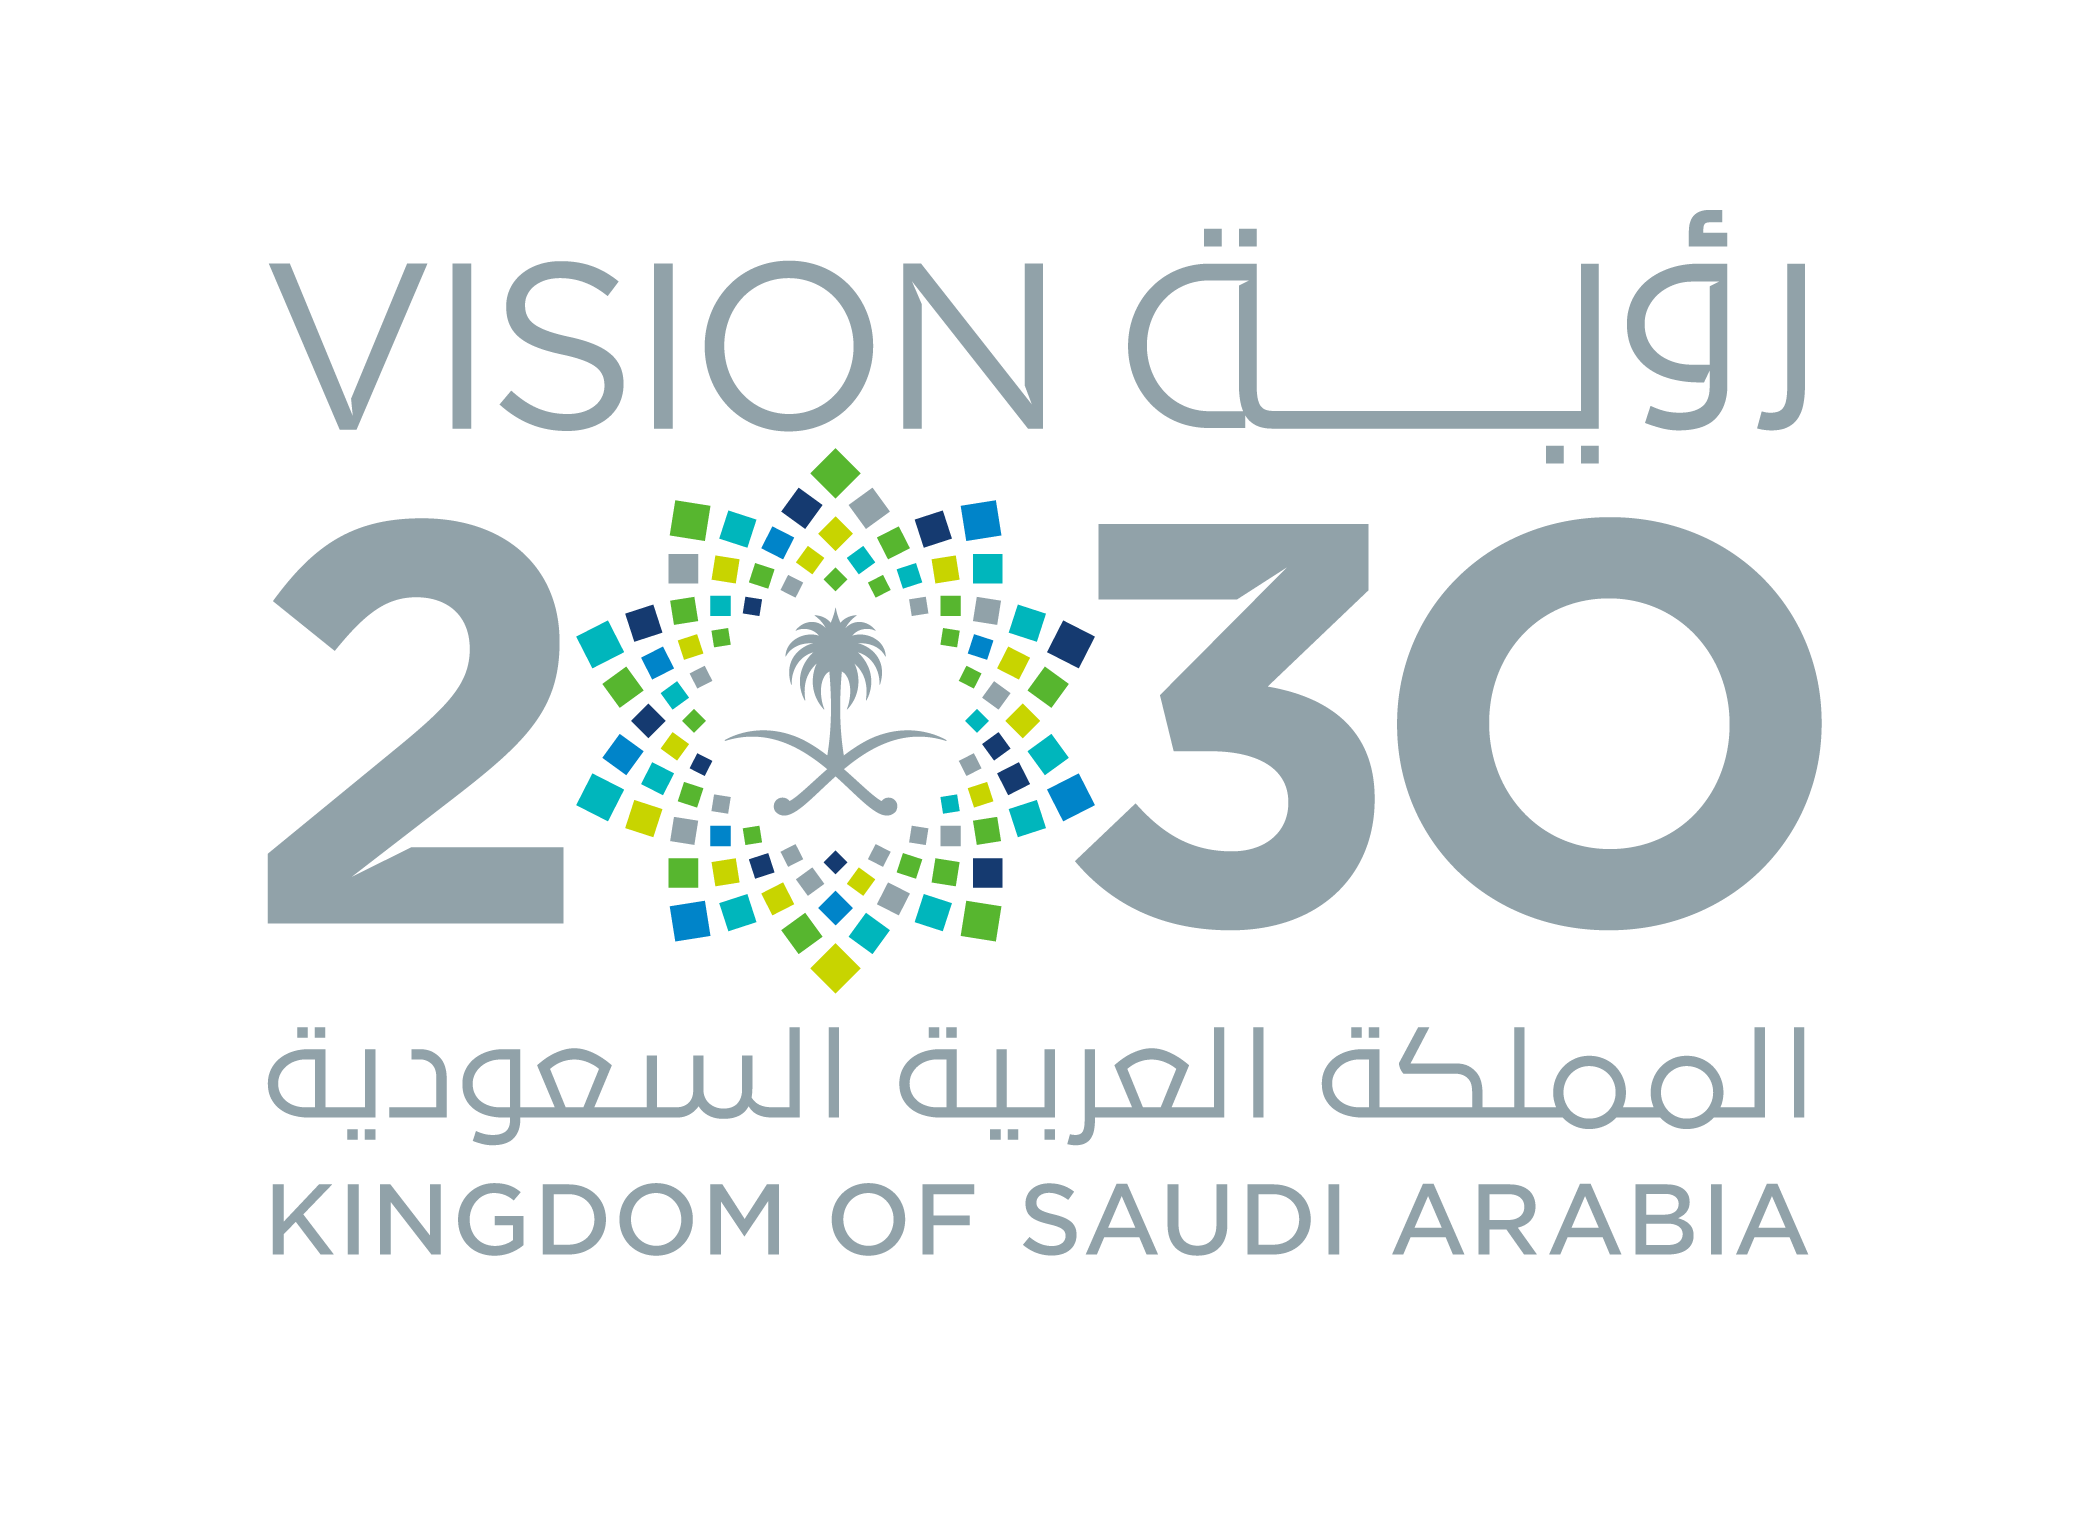
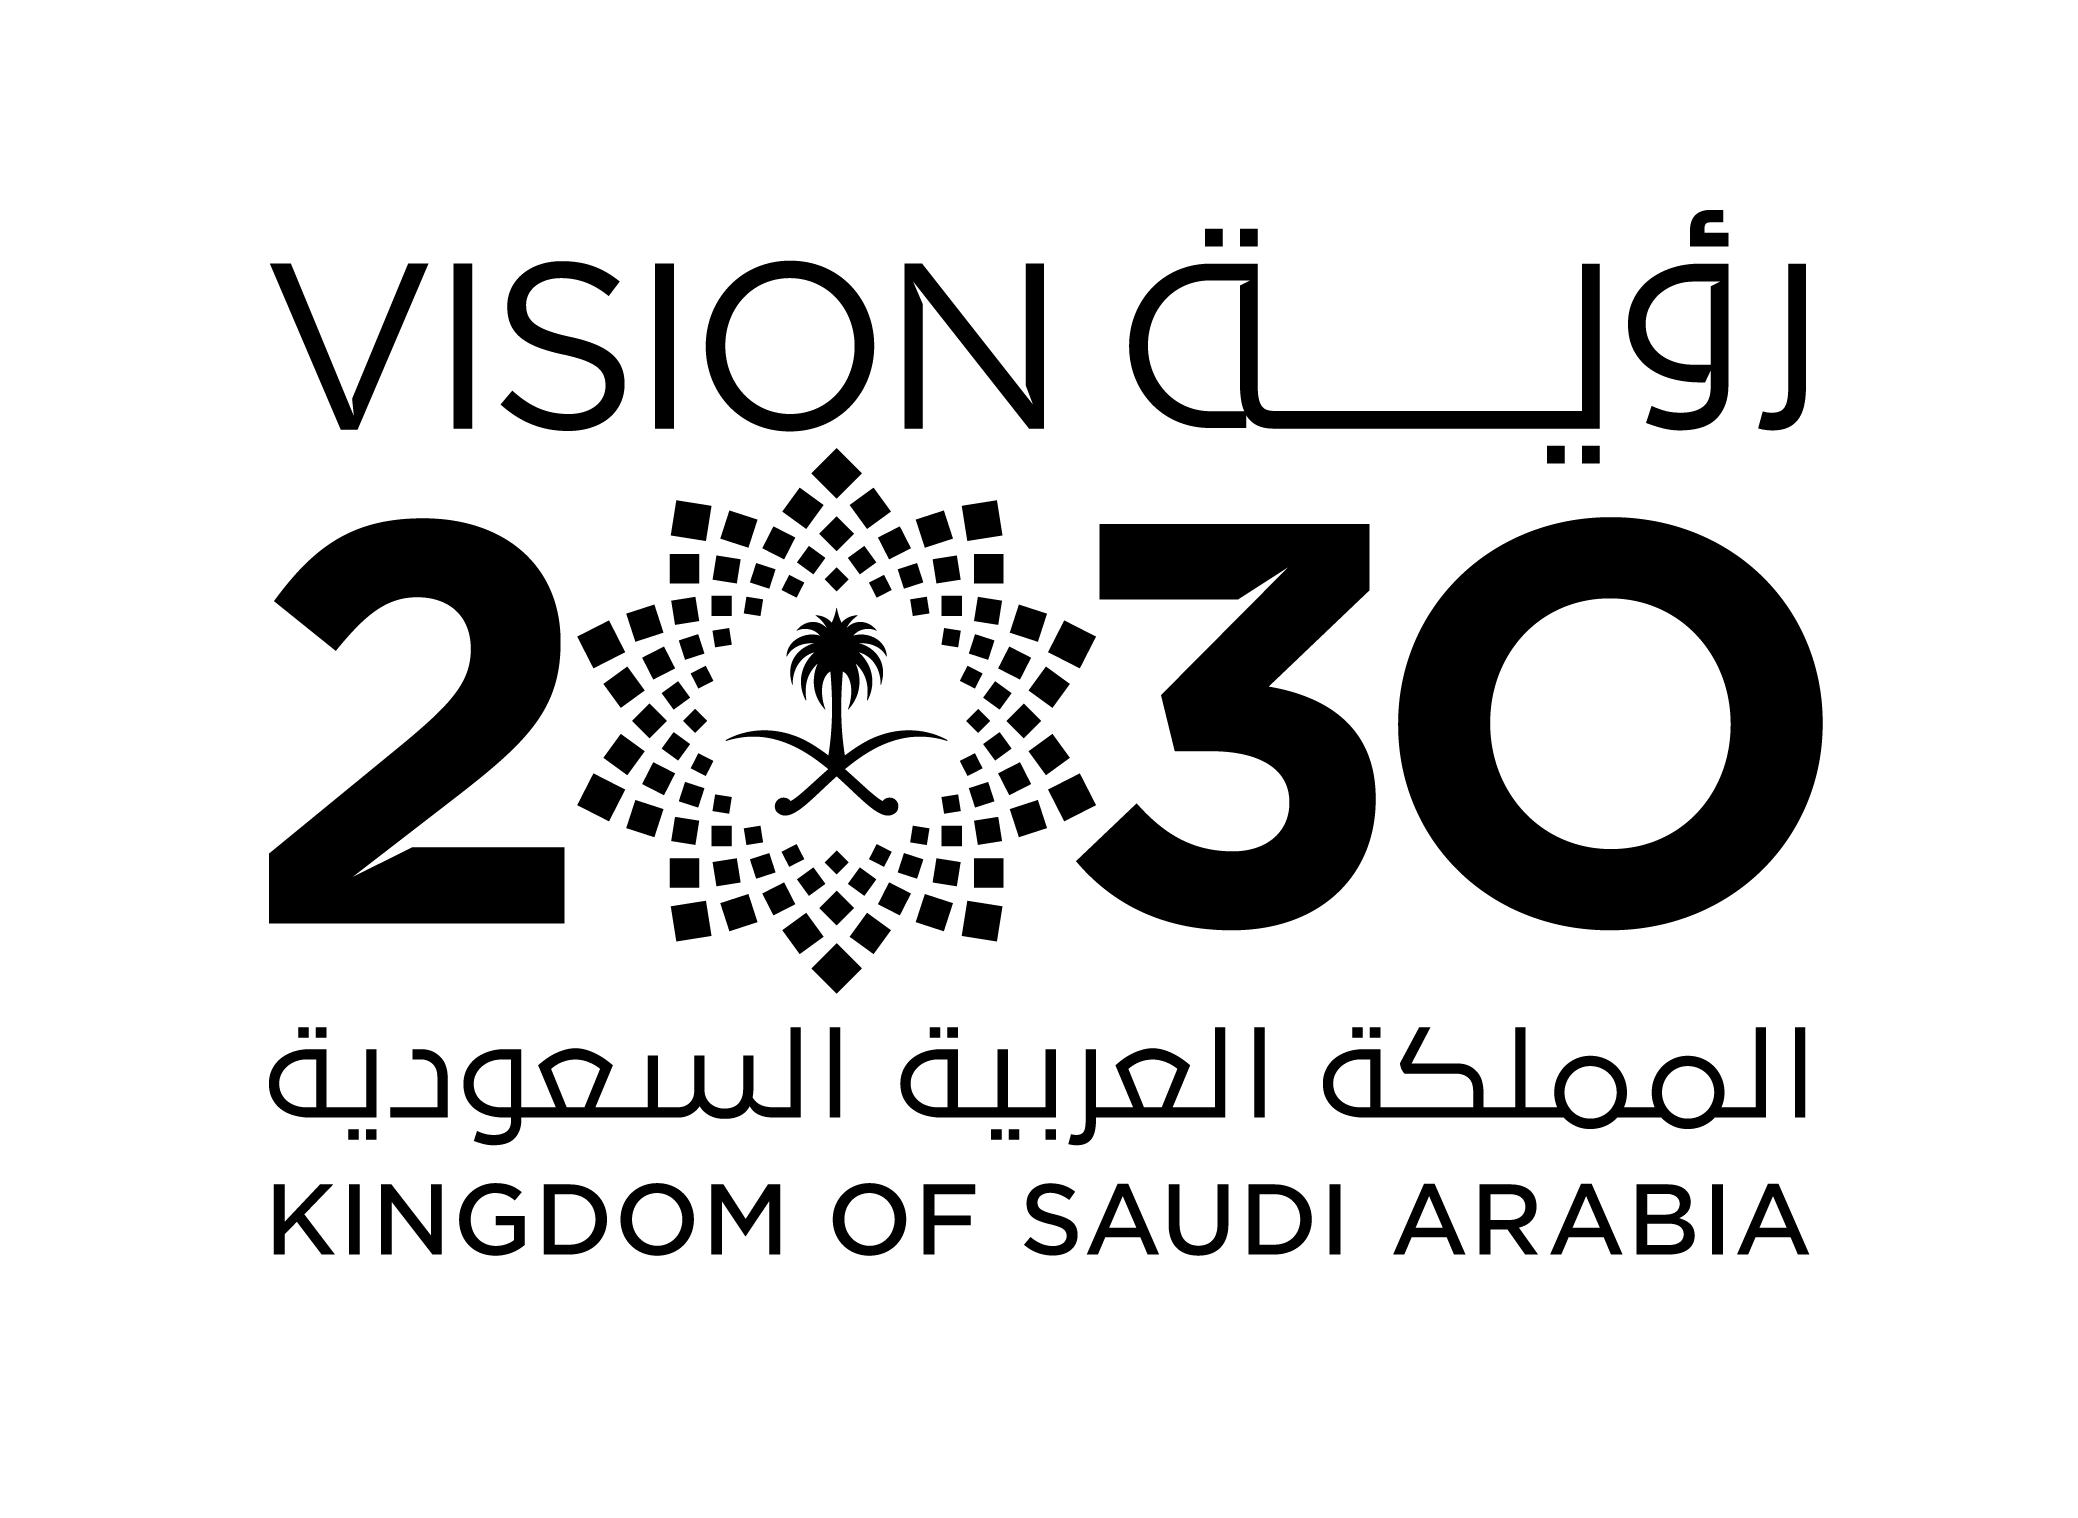
Match the two footer marks and reveal them together
The Vision artwork is now the official black version, which holds on the
footer's warm grey where the colour one washed out, and it is set to the
same width as the FADEN mark above it, keeping its own proportions.

Both marks now wipe in from the left when the footer is reached, FADEN
first and Vision a quarter second behind, from one component so they can
never drift apart.

Changed region(s): [[0.1232, 0.1238, 0.8932, 0.6502], [0.1232, 0.6812, 0.8932, 0.836], [0.6776, 0.774, 0.8932, 0.836]]

diff --git a/src/components/layout/footer-marks.jsx b/src/components/layout/footer-marks.jsx
@@ -1,0 +1,80 @@
+"use client";
+
+import FadenLogo from "@/components/common/faden-logo";
+import { motion, useReducedMotion } from "motion/react";
+import Image from "next/image";
+import { useEffect, useRef, useState } from "react";
+
+/**
+ * The two marks in the footer's first column: FADEN's own, and the Vision 2030
+ * mark under it at the same width.
+ *
+ * No caption under either — the marks stand alone, so nothing on the page can
+ * be read as a claim of partnership or endorsement. The Vision artwork is the
+ * official black version, used as supplied: never recoloured, tilted or
+ * cropped.
+ *
+ * Both wipe in from the left the first time the footer is reached, FADEN
+ * first. The reveal is driven by an observer of our own rather than
+ * whileInView: a wrapper that starts fully clipped reports no intersection, so
+ * whileInView never fired and the marks stayed invisible.
+ */
+export default function FooterMarks() {
+  const reduceMotion = useReducedMotion();
+  const ref = useRef(null);
+  const [shown, setShown] = useState(false);
+
+  useEffect(() => {
+    const el = ref.current;
+    if (!el) return;
+    const observer = new IntersectionObserver(
+      ([entry]) => {
+        if (entry.isIntersecting) {
+          setShown(true);
+          observer.disconnect();
+        }
+      },
+      { threshold: 0.3 },
+    );
+    observer.observe(el);
+    return () => observer.disconnect();
+  }, []);
+
+  const wipe = (delay) => ({
+    initial: reduceMotion
+      ? false
+      : { clipPath: "inset(0 100% 0 0)", opacity: 0 },
+    animate: shown ? { clipPath: "inset(0 0% 0 0)", opacity: 1 } : undefined,
+    transition: { duration: 0.9, delay, ease: [0.22, 1, 0.36, 1] },
+  });
+
+  return (
+    <div ref={ref}>
+      <motion.div {...wipe(0)}>
+        <FadenLogo
+          width={186}
+          height={125}
+          className="w-[150px] sm:w-[170px] lg:w-[186px]"
+        />
+      </motion.div>
+
+      <motion.div
+        {...wipe(0.25)}
+        // The same width as the FADEN mark above it, with the artwork's own
+        // proportions kept.
+        className="relative mt-7 aspect-[2078/1518] w-[150px] sm:mt-8 sm:w-[170px] lg:w-[186px]"
+      >
+        <Image
+          src="/images/faden/vision-2030.png"
+          alt="Saudi Vision 2030"
+          fill
+          sizes="186px"
+          // Loaded up front: a clipped wrapper never triggers lazy loading, so
+          // the mark would arrive blank.
+          priority
+          className="object-contain object-left"
+        />
+      </motion.div>
+    </div>
+  );
+}

diff --git a/src/components/layout/footer.jsx b/src/components/layout/footer.jsx
@@ -1,6 +1,5 @@
-import FadenLogo from "@/components/common/faden-logo";
 import Container from "@/components/layout/container";
-import Vision2030Strip from "@/components/layout/vision-2030-strip";
+import FooterMarks from "@/components/layout/footer-marks";
 import { getSettings, telHref } from "@/lib/settings/data";
 import { Mail, MapPin, Phone } from "lucide-react";
 
@@ -76,12 +75,7 @@ export default async function Footer() {
       <Container className="grid gap-10 pb-8 sm:grid-cols-2 sm:gap-12 lg:grid-cols-[1.15fr_1fr_1.15fr_0.9fr] lg:gap-14 lg:pb-10">
         {/* Logo Column */}
         <div className="sm:col-span-2 lg:col-span-1">
-          <FadenLogo
-            width={186}
-            height={125}
-            className="w-[150px] sm:w-[170px] lg:w-[186px]"
-          />
-          <Vision2030Strip />
+          <FooterMarks />
         </div>
 
         {/* Quick Links */}
